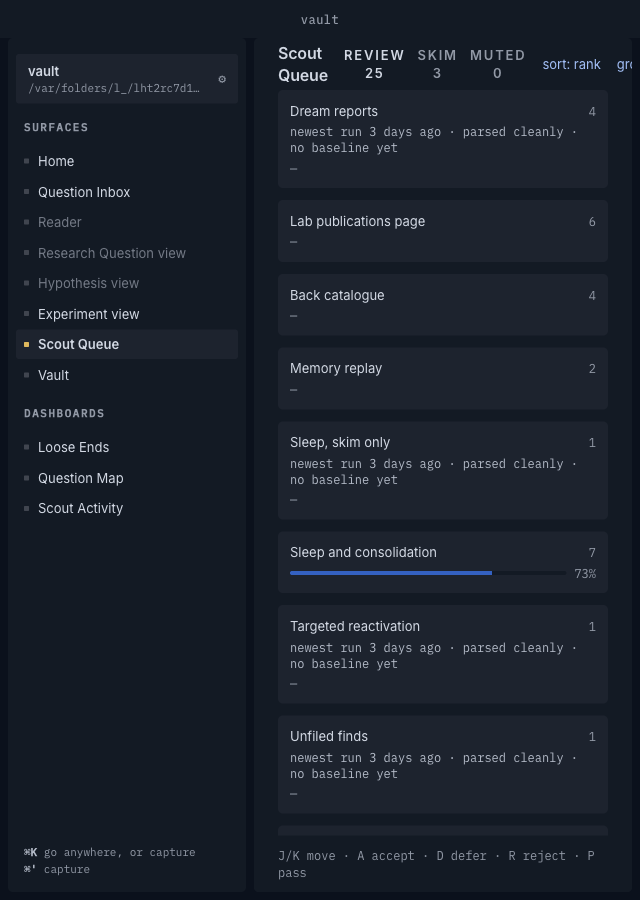
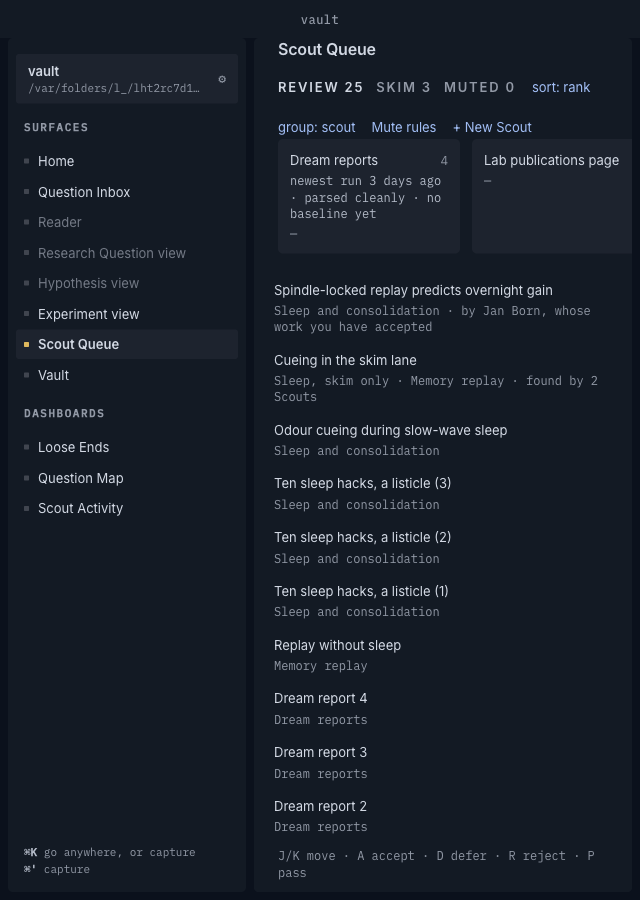
fix(scouts): one-row strip at every width, wrapping header; review fixes (#842)
The narrow captures showed the strip stacked into a column with no list in
view and the header clipped, so the strip is one sideways-scrolling row at
every width and the header wraps. Review: architecture.md now says the Scout
header sits above the panes and Pass resets to Rank's order; eight launches,
not nine; the CSS header comment no longer promises a rail; one Reject-this-
run helper in the drives; the broken tile scrolled into the picture. The
record lists what diverged and what a hidden launch cannot show (a failed
Queue read, which scout-queue.test.tsx covers). README status line off the
rail.

diff --git a/packages/renderer/src/ScoutQueue.module.css b/packages/renderer/src/ScoutQueue.module.css
@@ -1,7 +1,8 @@
 /*
  * The Scout Queue's tracer (#448): the Scouts' own files, one card in hand,
  * one key. A pane on the window's gutter, never a line between panes
- * (ADR 0023 decision 1); the rail, the Lanes and the rest are later tickets'.
+ * (ADR 0023 decision 1). Since beat 14 (ADR 0052) it is a strip of Scouts
+ * over a list and a detail.
  */
 .surface {
   flex: 1;
@@ -17,6 +18,7 @@
   min-height: 52px;
   flex: none;
   display: flex;
+  flex-wrap: wrap;
   align-items: center;
   gap: var(--space-4);
   padding: 0 var(--space-5);
@@ -338,8 +340,14 @@
   padding: 0 var(--space-5) var(--space-3);
   flex: none;
   list-style: none;
+  /* One row that scrolls sideways, as prototype 14 draws it, at every width:
+     a fleet that wraps to three rows leaves the panes beneath a row tall,
+     and in a narrow window stacks into a column with no list in view. */
   display: grid;
-  grid-template-columns: repeat(auto-fill, minmax(min(100%, 13rem), 1fr));
+  grid-auto-flow: column;
+  grid-auto-columns: minmax(min(100%, 13rem), 1fr);
+  overflow-x: auto;
+  scroll-padding-inline: var(--space-5);
   gap: var(--space-3);
 }
 
@@ -447,15 +455,6 @@
    (prototype 14), so J/K deep in a long list never scrolls the strip away.
    Stacked, the surface scrolls as one. */
 @media (min-width: 60rem) {
-  /* One row, as prototype 14 draws it: a fleet that wraps to three rows
-     would leave the panes beneath it a row tall. */
-  .strip {
-    grid-auto-flow: column;
-    grid-template-columns: none;
-    grid-auto-columns: minmax(13rem, 1fr);
-    overflow-x: auto;
-  }
-
   .panes {
     grid-template-columns: minmax(0, 2fr) minmax(0, 3fr);
     flex: 1;

diff --git a/docs/agents/run.md b/docs/agents/run.md
@@ -41,11 +41,11 @@ Copy `packages/core/fixtures/obsidian-vault` into the scratchpad: it has `.obsid
 
 `node Scripts/run-window-demo.mjs <out-folder>` is the run window's closing run (#562): three hidden launches over scratch copies of the fixture vault (the first with 50 generated Sources), the arXiv endpoint on the stand-in. One PNG each: fifty PDFs written five at a time over 15 s, which is one footer line with the whole count and every note holding its blocks (the drive samples the footer every 100 ms and throws on a second line); a lone PDF returned, which lands about 7 s after the save; two PDFs attached back to back, which are one line holding both counts. The `--after` of each launch is tuned to the moment its line lands, since the footer fades 8 s later; `KEEP=1` leaves the scratch vault behind.
 
-`node Scripts/scout-activity-demo.mjs <out-folder>` is the Scout Activity beat's closing run (#523): nine hidden launches on one scratch vault holding a dozen Scouts of mixed quality — seeded by SQL (`Scripts/scout-activity-demo/vault.mjs`: twelve weeks of triage, one failed run, one Watched Scout with no key, one paused, one that mostly finds what the vault holds), against a local stand-in for arXiv and for the lab's page (`Scripts/scout-activity-demo/standin.mjs`, the core's recorded feeds chosen by what the Query says) — never the real arXiv; no key is stored and `VITRINE_CREDENTIALS=memory` keeps the Keychain out of it. It picks its own free debug port, since another session's app may hold the default one. One PNG each: the fleet in need-order with no judgement colour, the poor Scout opened to its weekly line, its Query edited and the dry run saying what changes, the save that runs it at once, a cadence menu saying *due at the next check*, a drop that leaves the row in place with *undo*, the dropped Scout's Proposals still in the Queue under its name after a relaunch, its restore, and a coverage gap read through to *brief a scout* with the Question already Assigned. Each drive throws when the page does not show what its step claims, and the script checks the queue itself (a drop moves no Proposal and writes no verdict). Not shown: the per-run cost list, which only a Scout that called a model has — that needs a key and a model, and is the core's tests'.
+`node Scripts/scout-activity-demo.mjs <out-folder>` is the Scout Activity beat's closing run (#523): eight hidden launches on one scratch vault holding a dozen Scouts of mixed quality — seeded by SQL (`Scripts/scout-activity-demo/vault.mjs`: twelve weeks of triage, one failed run, one Watched Scout with no key, one paused, one that mostly finds what the vault holds), against a local stand-in for arXiv and for the lab's page (`Scripts/scout-activity-demo/standin.mjs`, the core's recorded feeds chosen by what the Query says) — never the real arXiv; no key is stored and `VITRINE_CREDENTIALS=memory` keeps the Keychain out of it. It picks its own free debug port, since another session's app may hold the default one. One PNG each: the fleet in need-order with no judgement colour, the poor Scout opened to its weekly line, its Query edited and the dry run saying what changes, the save that runs it at once, a cadence menu saying *due at the next check*, a drop that leaves the row in place with *undo*, the dropped Scout's Proposals still in the Queue under its name after a relaunch, its restore, and a coverage gap read through to *brief a scout* with the Question already Assigned. Each drive throws when the page does not show what its step claims, and the script checks the queue itself (a drop moves no Proposal and writes no verdict). Not shown: the per-run cost list, which only a Scout that called a model has — that needs a key and a model, and is the core's tests'.
 
 `node Scripts/keyword-demo.mjs <out-folder>` is the printed keywords' closing run (#684, spec #679): four hidden launches on one scratch copy of the fixture vault with a `probing` Tag of three papers, one holding a PDF (the core's `annotated-keywords.pdf`). One PNG each of the Tag's Lexicon editor: the printed keywords as *author keyword* Terms; the PDF replaced by one that prints none, and the Terms gone; the first put back; and a sidecar stripped of its keyword field (as one from before the slice is), read once and backfilled. It throws when the editor, the sidecar or the Source's bytes differ from what a step claims. No network is involved, so no stand-in.
 
-`node Scripts/attention-demo.mjs <out-folder>` is beat 10's closing run (#658, spec #636): nine hidden launches on one scratch copy of the fixture vault plus seven Tags of generated papers, against a local stand-in for OpenAlex (`Scripts/attention-demo/standin.mjs`, a table of fields answering each month's count; `VITRINE_OPENALEX_ENDPOINT`) — never the real one. One PNG each: a Lexicon derived and read with nothing sent; the first *Sync now*, asked first, then the scatter with its four quadrant names, where the axes cross and the two unplaced Tags with their reasons; a Seed leaving the old point marked *re-measure pending*; the sync on open failing for it with the measurement kept and Loose Ends and the Inbox unchanged; the review offering a paper by keyword overlap after the shared-Tag ones; and the recovered state in dark, light and each forced against the other. The script fails if anything is sent before *Sync now*, if a request carries more than compiled Terms, if the two-paper Tag is asked about, or if the failed Tag's stored measurement changes.
+`node Scripts/attention-demo.mjs <out-folder>` is beat 10's closing run (#658, spec #636): eight hidden launches on one scratch copy of the fixture vault plus seven Tags of generated papers, against a local stand-in for OpenAlex (`Scripts/attention-demo/standin.mjs`, a table of fields answering each month's count; `VITRINE_OPENALEX_ENDPOINT`) — never the real one. One PNG each: a Lexicon derived and read with nothing sent; the first *Sync now*, asked first, then the scatter with its four quadrant names, where the axes cross and the two unplaced Tags with their reasons; a Seed leaving the old point marked *re-measure pending*; the sync on open failing for it with the measurement kept and Loose Ends and the Inbox unchanged; the review offering a paper by keyword overlap after the shared-Tag ones; and the recovered state in dark, light and each forced against the other. The script fails if anything is sent before *Sync now*, if a request carries more than compiled Terms, if the two-paper Tag is asked about, or if the failed Tag's stored measurement changes.
 
 `node Scripts/page-change-demo.mjs <out-folder>` is the page change's closing run (#613, spec #563): seven hidden launches on one scratch copy of the fixture vault, against a local stand-in for a lab that moves its publications page and for the model's API (`Scripts/page-change-demo/standin.mjs`) — never a real site or the real API; `VITRINE_CREDENTIALS=memory` keeps the key in the core's memory, so each launch that reads a page stores it again. One PNG each: the Scout before the move, the old address failing, the form's *try* on the new Address and its Save, the first look (Retroactive), Loose Ends, and the weekly line's sentence. The script fails if Save changes any line of the file but `source.url`, if a run starts after Save, or if the first look at the new page is not an ok, Retroactive run. A launch checks every due Scout before the drive starts, so *no run after Save* is measured from a timestamp the drive writes (`DEMO_MARK`), not from a count.
 
@@ -57,7 +57,7 @@ Copy `packages/core/fixtures/obsidian-vault` into the scratchpad: it has `.obsid
 
 `node Scripts/tag-filter-demo.mjs <out-folder>` is beat 10b's closing run (#692, spec #678): six hidden launches on one scratch copy of the fixture vault with a `probing` Tag of three papers, a thin `bare` Tag and a hand-written Scout file naming it, against the arXiv stand-in of the Scout Activity demo (`VITRINE_ARXIV_ENDPOINT`) — never the real arXiv; `VITRINE_OPENALEX_ENDPOINT` is a dead port. One PNG each: the form with the Tag's Terms, the compiled query verbatim and *try* answered; the Scout saved and run; a Seed in the Lexicon editor; *Run now* after it; Loose Ends with the Scout whose Tag has no Terms failing by name; Scout Activity showing the Tags. The script prints each query the stand-in received and throws if *try* sent a window, if the Seed ran anything or is missing from the next query, if the `bare` Scout is not a `tags` failure. `KEEP=1` leaves the scratch vault behind.
 
-`node Scripts/vault-demo.mjs <out-folder>` is beat 11's closing run (#704, spec #680): nine hidden launches on one scratch copy of the fixture vault plus the notes a Vault surface is for (`Scripts/vault-demo/vault.mjs` — a note linking two highlights of a Source, one that only names it, a CRLF note with no trailing newline, a note of every kind of link, a digits-only tag), the arXiv endpoint on a dead port. One PNG each: the files tab with a Kind glyph per file and a Source's annotation count; typing saved (the CRLF note changes only the typed bytes on disk, a Working answer typed here adds a Position Revision); a duplicated section saved anyway and said on the Research Question's own surface; a Source's backlinks grouped by `^h1` / `^h2` with its unlinked mentions; the tag tree's inclusive and this-level counts and the refused tag with its file; full-text search opened with ↵; *changed on disk* with autosave waiting; *keep mine*, *take the disk copy* and a clean editor reloading silently; and following links (a Source lands on its own surface, an unresolved link and a `file:` link each said). The drives read the files on disk and throw when a step is not what it claims, so a green run is the evidence. The editor is driven by real clicks and typed text; the cursor is placed by a click on a line in view (CM draws only the lines near the viewport, so a click on the last line of a long file finds nothing), and a Live Preview line shows its marks only under the cursor, so a heading is found by its words and not its `##`. `KEEP=1` leaves the scratch vault behind.
+`node Scripts/vault-demo.mjs <out-folder>` is beat 11's closing run (#704, spec #680): eight hidden launches on one scratch copy of the fixture vault plus the notes a Vault surface is for (`Scripts/vault-demo/vault.mjs` — a note linking two highlights of a Source, one that only names it, a CRLF note with no trailing newline, a note of every kind of link, a digits-only tag), the arXiv endpoint on a dead port. One PNG each: the files tab with a Kind glyph per file and a Source's annotation count; typing saved (the CRLF note changes only the typed bytes on disk, a Working answer typed here adds a Position Revision); a duplicated section saved anyway and said on the Research Question's own surface; a Source's backlinks grouped by `^h1` / `^h2` with its unlinked mentions; the tag tree's inclusive and this-level counts and the refused tag with its file; full-text search opened with ↵; *changed on disk* with autosave waiting; *keep mine*, *take the disk copy* and a clean editor reloading silently; and following links (a Source lands on its own surface, an unresolved link and a `file:` link each said). The drives read the files on disk and throw when a step is not what it claims, so a green run is the evidence. The editor is driven by real clicks and typed text; the cursor is placed by a click on a line in view (CM draws only the lines near the viewport, so a click on the last line of a long file finds nothing), and a Live Preview line shows its marks only under the cursor, so a heading is found by its words and not its `##`. `KEEP=1` leaves the scratch vault behind.
 
 `node Scripts/home-demo.mjs <out-folder>` is beat 12's closing run (#737, spec #728): two hidden launches, each on its own scratch copy of the fixture vault plus three or four Scouts seeded by SQL (`Scripts/home-demo/vault.mjs`, every date relative to the run since Home measures against now), the arXiv endpoint on a dead port — never the real arXiv. One PNG each: Home quiet (every Scout looking, Review empty, nothing changed — each a claim with its Warrant, no interrupt) and Home full (a Scout failing as the interrupt with *run now* and *pause*, twelve in Review with median and oldest, the changes grouped under two Tags and *untagged*, three Questions back from the notebook, *away since* in the dateline). Each drive throws when Home does not show what its step claims or shows an absence it must never have (*nothing is broken*, a figure beside Loose Ends, an alert for a state, anything but three bare dashboard links), and logs every line carrying a digit as `NUMBER:` so the page can be read for a figure that leads nowhere. The notebook's third row sits below the fold of the capture; the drive reads it. `KEEP=1` leaves the scratch vaults behind.
 
@@ -67,7 +67,7 @@ Copy `packages/core/fixtures/obsidian-vault` into the scratchpad: it has `.obsid
 
 `node Scripts/ui-record-demo.mjs <out-folder>` is beat 13's closing record (#793, spec #782): four hidden launches (every surface in dark and in light on the Home demo's vault; First run in each theme), each drive taking its own `Page.captureScreenshot` per surface, arXiv and OpenAlex on dead ports. `docs/records/beat-13/` holds its output beside the frozen prototypes.
 
-`node Scripts/scout-queue-demo.mjs <out-folder>` is beat 14's closing run (#842, spec #836): nine hidden launches on one scratch vault — beat 6b's six Scouts and triage history (`Scripts/queue-demo/vault.mjs`) plus two Retroactive batches, three Skim lines and a Scout file that does not parse (`Scripts/scout-queue-demo/vault.mjs`) — against beat 6b's arXiv stand-in, never the real arXiv. Each drive takes its own pictures, dark, a 640px window and light: triage by keys (J/K, reject and `U`, an accept with no undo, a defer, the strip still in view after six J), a tile's filter and its Scout header, a batch expanded with a title selected and the other rejected as a run and undone, Skim, Muted, the Queue by Question, and the unreadable Scout's tile beside a rules file that cannot be read named in the footer. Each drive throws when the page does not show what its step claims, and the script reads the queue: a run reject is one row per card under the run id with no bulk id. `docs/records/beat-14/` holds its output. `KEEP=1` leaves the scratch vault behind.
+`node Scripts/scout-queue-demo.mjs <out-folder>` is beat 14's closing run (#842, spec #836): eight hidden launches on one scratch vault — beat 6b's six Scouts and triage history (`Scripts/queue-demo/vault.mjs`) plus two Retroactive batches, three Skim lines and a Scout file that does not parse (`Scripts/scout-queue-demo/vault.mjs`) — against beat 6b's arXiv stand-in, never the real arXiv. Each drive takes its own pictures, dark, a 640px window and light: triage by keys (J/K, reject and `U`, an accept with no undo, a defer, the strip still in view after six J), a tile's filter and its Scout header, a batch expanded with a title selected and the other rejected as a run and undone, Skim, Muted, the Queue by Question, and the unreadable Scout's tile beside a rules file that cannot be read named in the footer. Each drive throws when the page does not show what its step claims, and the script reads the queue: a run reject is one row per card under the run id with no bulk id. `docs/records/beat-14/` holds its output. `KEEP=1` leaves the scratch vault behind.
 
 ## What cannot be driven this way
 

diff --git a/docs/architecture.md b/docs/architecture.md
@@ -480,7 +480,7 @@ Health per Scout is a query: last `ok` run, last run with `new > 0`, and the new
 
 **The surface, when a Scout read fails** (#527). The Queue makes six reads — `scouts.list`, `queue`, `groups`, `fleet`, `health` and, in Skim only, `skim` — and any of them failing is a failed read, never an empty list (ADR 0032, 0033). Where the rows would begin the first slot is *wrong*, *not known*, in either lane; the health strip says the same when the Scouts themselves are not known, and withholds its counts when the stack is not, since a `0` beside a failed read reads as all clear. A surface with rows draws its rows and says nothing in the slot. The reasons go to the footer channel and nowhere else, `‖ not read — <reason>` as Scout Activity's is, one `role="status"` line each, and reads that failed for one cause share a line (#526 fails six with the same words). Skim's read counts only in Skim: it does not run in Review, and a failure it left behind would still be a footer line there. Settings words a failed `credentials.waiting` the same way in its footer, since there is no list to draw it in.
 
-**The surface** (`#/scouts`; ADR 0052, #837–#842). A header of text tabs (`Review N`, `Skim N`, `Muted N`), the `sort:` and `group:` toggles, *Mute rules* and *+ New Scout*; under it a health strip of one tile per Scout (name, pending count, its Voice line, an Accept-rate bar or `—`), which only filters; then a list pane of NEW FINDS in Rank order over RETROACTIVE batches beside a detail pane holding the selected Proposal, and one footer channel. A tile filters both lists to its Scout and opens the Scout's header at the top of the list pane (Run now, Edit, Pause/Resume, cost, Assigned Questions, *N already in your vault*, *N below your cap · Show them*); a second click or *show all* clears it. The form opens in the list and detail's place. A broken or not-yet Scout shows its fragment on its tile as well as in its header, so it cannot hide in a strip nobody filters, and an unreadable Scout file is a tile by file name. Grouping by Question swaps the strip for Question tiles. Keys: `J`/`K` move through the visible order, `A`/`D`/`R` act and select the next, `P` passes, `U` and `⌘Z` undo, `⇧R`/`⇧D` act on the list on screen; ignored in a field. **Retroactive batches** are `scouts.batches` (`readRetroBatches`, `triage.ts`): one entry per Retroactive run with cards pending — Scout, run id, pending ids in list order, the run's cost or null — derived from `scout_runs.retroactive`, `appearances` and `proposals` under the same Mute rules and Caps as the stack, nothing stored; the renderer never derives a batch from `Card.retroactive`. *Reject this run* is `rejectRun` on that run id and `U` is `undoRun`, one compensating `undo` per card still under that reject, with no bulk id (ADR 0052 decision 4). **Pass** `P` moves the card to the bottom of the session's order and wraps at the end; the order is newest-first again on the next open, and a group that has been passed through says so rather than showing an empty state. **Undo** covers reject and defer while the card is still in the stack and appends an `undo` row; accept is not undoable (ADR 0039 d.6). **Empty, in the three voices** (ADR 0032): no Scouts is *not yet*; a Scout with nothing pending claims only if its last run was `ok`, and otherwise speaks in its own voice; *Review cleared* is a claim warranted by the fleet — *3 scouts watching · all parsed cleanly · newest run 2h ago · last new proposal 11 Sep*, any Scout that is not looking named inline — and it makes no claim at all while any Scout is broken. Skim's quiet is warranted the same way. **Skim** offers `A` accept, `O` open and `T` *to Review* (writes `promote`); no `R`, `D` or `P`, since nothing there is owed, and a click selects a line and opens its detail rather than promoting it. As built (#452): `scouts.skim` returns `{ recent, older }`; `scouts.promote` writes the `promote` row and rewrites the Proposal's lane to `review`, so Review's reads and the `R`/`D`/undo guards need no special case, and `decide` refuses a Skim line. `acceptCounts` (`triage.ts`) is the Accept-rate read beat 9 builds on — it excludes any Proposal with a `promote` row and any still in the Skim lane, and nets out undone rejects. `scouts.fleet` (`readFleetClaim`, `scout-health.ts`) is the one fleet claim the lanes' empty states render (Skim's today; Review's *cleared* reads it too), withheld with the broken Scouts named while any is broken. It rests only on the Scouts that are not dropped: its newest run and its last new proposal are theirs, never a dropped Scout's (#521); a paused Scout is among them, since it ran and said so. Assigned Questions are drawn with their Status glyph and get no nag when closed; a promoted Question is not closed, and the picker offers open Questions only.
+**The surface** (`#/scouts`; ADR 0052, #837–#842). A header of text tabs (`Review N`, `Skim N`, `Muted N`), the `sort:` and `group:` toggles, *Mute rules* and *+ New Scout*; under it a health strip of one tile per Scout (name, pending count, its Voice line, an Accept-rate bar or `—`), which only filters; then a list pane of NEW FINDS in Rank order over RETROACTIVE batches beside a detail pane holding the selected Proposal, and one footer channel. A tile filters both lists to its Scout and opens the Scout's header above the panes (Run now, Edit, Pause/Resume, cost, Assigned Questions, *N already in your vault*, *N below your cap · Show them*); a second click or *show all* clears it. The form opens in the list and detail's place. A broken or not-yet Scout shows its fragment on its tile as well as in its header, so it cannot hide in a strip nobody filters, and an unreadable Scout file is a tile by file name. Grouping by Question swaps the strip for Question tiles. Keys: `J`/`K` move through the visible order, `A`/`D`/`R` act and select the next, `P` passes, `U` and `⌘Z` undo, `⇧R`/`⇧D` act on the list on screen; ignored in a field. **Retroactive batches** are `scouts.batches` (`readRetroBatches`, `triage.ts`): one entry per Retroactive run with cards pending — Scout, run id, pending ids in list order, the run's cost or null — derived from `scout_runs.retroactive`, `appearances` and `proposals` under the same Mute rules and Caps as the stack, nothing stored; the renderer never derives a batch from `Card.retroactive`. *Reject this run* is `rejectRun` on that run id and `U` is `undoRun`, one compensating `undo` per card still under that reject, with no bulk id (ADR 0052 decision 4). **Pass** `P` moves the card to the bottom of the session's order and wraps at the end; the order is Rank's again on the next open, and a group that has been passed through says so rather than showing an empty state. **Undo** covers reject and defer while the card is still in the session's list and appends an `undo` row; accept is not undoable (ADR 0039 d.6). **Empty, in the three voices** (ADR 0032): no Scouts is *not yet*; a Scout with nothing pending claims only if its last run was `ok`, and otherwise speaks in its own voice; *Review cleared* is a claim warranted by the fleet — *3 scouts watching · all parsed cleanly · newest run 2h ago · last new proposal 11 Sep*, any Scout that is not looking named inline — and it makes no claim at all while any Scout is broken. Skim's quiet is warranted the same way. **Skim** offers `A` accept, `O` open and `T` *to Review* (writes `promote`); no `R`, `D` or `P`, since nothing there is owed, and a click selects a line and opens its detail rather than promoting it. As built (#452): `scouts.skim` returns `{ recent, older }`; `scouts.promote` writes the `promote` row and rewrites the Proposal's lane to `review`, so Review's reads and the `R`/`D`/undo guards need no special case, and `decide` refuses a Skim line. `acceptCounts` (`triage.ts`) is the Accept-rate read beat 9 builds on — it excludes any Proposal with a `promote` row and any still in the Skim lane, and nets out undone rejects. `scouts.fleet` (`readFleetClaim`, `scout-health.ts`) is the one fleet claim the lanes' empty states render (Skim's today; Review's *cleared* reads it too), withheld with the broken Scouts named while any is broken. It rests only on the Scouts that are not dropped: its newest run and its last new proposal are theirs, never a dropped Scout's (#521); a paused Scout is among them, since it ran and said so. Assigned Questions are drawn with their Status glyph and get no nag when closed; a promoted Question is not closed, and the picker offers open Questions only.
 
 **Tests and the demo.** The arXiv client takes an injected `fetch` and an injected clock, so the three-second gap is asserted, not slept. Recorded Atom fixtures live with the core's tests: a normal feed, an empty feed, the one-entry error feed, a `v2` of a known id, a truncation. One opt-in live smoke test sits outside the default suite. The beat's closing demo drives the app hidden against a local stub server, never live arXiv, so it is reproducible and cannot trip the ToU in CI.
 

diff --git a/README.md b/README.md
@@ -10,6 +10,6 @@ A local-first research workspace built around the Question rather than the note.
 
 Vitrine is built by [Sarah Lehman](https://github.com/dr-tacomancer) under [Tacomancy](https://tacomancy.com/), a one-person studio.
 
-**Status:** the design is complete and every surface has a pinned prototype; the stack is settled (ADR 0005), scaffolded and packaged — `pnpm install && pnpm dev` opens the window on a running core, `pnpm package` installs the app. All eight surfaces are live against a real Markdown vault — two-keystroke capture and the **Question Inbox**; the **Research Question view**, with triage, a working answer kept as a Position history rather than overwritten, sources on two sides, and resolve; the **Hypothesis view**, with criteria written before any run, a state derived from them with its rule printed beside it, edits after evidence marked, and the result written back to the question it came from; and the **Experiment view**, which holds a run's purpose, its design written before running, where it ran, its plots and files drawn inline (stored in the vault, or linked where they lie and checked when the run is attached as Evidence) and its observations, beside an **Experiment Inbox** of completed runs not yet written up or attached — and the **Scout Queue**, where arXiv Scouts (a Query, run on open and hourly) and OpenAlex Scouts (journals and conferences only, by Query or by Tags, optionally limited to a venue allowlist) propose papers as cards to review or skim — one card when both find the same work, its journal link first — ranked by what you have already accepted, with a Cap, mute rules and a one-gesture group clear that undoes as one — accept one and a Source stub is written, and a broken Scout is named in the same sentence on the rail and in Loose Ends — and Scouts that watch a web page — read from its feed at no cost, or by your own model with every card checked against the page, a key kept in the Keychain, a redesigned page named as broken — along with all three dashboards — **Loose Ends**; the **Question Map**, a coverage matrix with its cut stated, a review of inferred links, and a second panel plotting each Tag's field growth (OpenAlex, nothing sent but its Terms) against the papers you hold, with its Lexicon editable beside it; and **Scout Activity**, one row per Scout sorted by need and judging none, where a poor Query is fixed in its own row and a Scout is dropped and restored with its history. The vault is watched and indexed, so an edit made in Obsidian reaches the app. **Settings** (⌘,) states where the vault is and where the PDFs are, naming an iCloud Drive or Dropbox folder the PDF folder links to; while that folder does not resolve, the footer says *papers not arriving*. The **Reader** opens a paper's PDF beside what already touches it: annotations made in Preview or on an iPad are re-matched when the file is re-saved and become blocks in the Source, a highlight whose note begins `Q:` becomes a Question, one that cannot be found is a Loose end to resolve rather than a link that rots, and a selection becomes a highlight, a margin note or a Question from the page. The **Vault** is a three-pane surface for the plain Markdown beside all of that — a file tree with a glyph per Kind, a tag tree with both counts, full-text search, an editor that saves as you type (and records a Position Revision when what you typed is a Question's, a Hypothesis's or an Experiment's own section), the file's backlinks (a Source's grouped by the highlight they point at) and its unlinked mentions, and one line, never a dialog, when a file changes on disk under unsaved typing. **Home** is the landing: one sentence claiming that the Scouts are looking (never that nothing is wrong), a broken Scout as the one thing it interrupts for, what waits in Review, what changed while you were away grouped by Tag, and three old Questions from the notebook that can be dismissed out of the rotation, not out of the vault. Everything else is designed and not yet built.
+**Status:** the design is complete and every surface has a pinned prototype; the stack is settled (ADR 0005), scaffolded and packaged — `pnpm install && pnpm dev` opens the window on a running core, `pnpm package` installs the app. All eight surfaces are live against a real Markdown vault — two-keystroke capture and the **Question Inbox**; the **Research Question view**, with triage, a working answer kept as a Position history rather than overwritten, sources on two sides, and resolve; the **Hypothesis view**, with criteria written before any run, a state derived from them with its rule printed beside it, edits after evidence marked, and the result written back to the question it came from; and the **Experiment view**, which holds a run's purpose, its design written before running, where it ran, its plots and files drawn inline (stored in the vault, or linked where they lie and checked when the run is attached as Evidence) and its observations, beside an **Experiment Inbox** of completed runs not yet written up or attached — and the **Scout Queue**, where arXiv Scouts (a Query, run on open and hourly) and OpenAlex Scouts (journals and conferences only, by Query or by Tags, optionally limited to a venue allowlist) propose papers to review or skim — a ranked list beside the selected paper, under a strip of every Scout's health, with a first look at a page's back catalogue kept apart from new finds and rejected as one run; one card when both Scouts find the same work, its journal link first — ranked by what you have already accepted, with a Cap, mute rules and a one-gesture group clear that undoes as one — accept one and a Source stub is written, and a broken Scout is named in the same sentence on its tile and in Loose Ends — and Scouts that watch a web page — read from its feed at no cost, or by your own model with every card checked against the page, a key kept in the Keychain, a redesigned page named as broken — along with all three dashboards — **Loose Ends**; the **Question Map**, a coverage matrix with its cut stated, a review of inferred links, and a second panel plotting each Tag's field growth (OpenAlex, nothing sent but its Terms) against the papers you hold, with its Lexicon editable beside it; and **Scout Activity**, one row per Scout sorted by need and judging none, where a poor Query is fixed in its own row and a Scout is dropped and restored with its history. The vault is watched and indexed, so an edit made in Obsidian reaches the app. **Settings** (⌘,) states where the vault is and where the PDFs are, naming an iCloud Drive or Dropbox folder the PDF folder links to; while that folder does not resolve, the footer says *papers not arriving*. The **Reader** opens a paper's PDF beside what already touches it: annotations made in Preview or on an iPad are re-matched when the file is re-saved and become blocks in the Source, a highlight whose note begins `Q:` becomes a Question, one that cannot be found is a Loose end to resolve rather than a link that rots, and a selection becomes a highlight, a margin note or a Question from the page. The **Vault** is a three-pane surface for the plain Markdown beside all of that — a file tree with a glyph per Kind, a tag tree with both counts, full-text search, an editor that saves as you type (and records a Position Revision when what you typed is a Question's, a Hypothesis's or an Experiment's own section), the file's backlinks (a Source's grouped by the highlight they point at) and its unlinked mentions, and one line, never a dialog, when a file changes on disk under unsaved typing. **Home** is the landing: one sentence claiming that the Scouts are looking (never that nothing is wrong), a broken Scout as the one thing it interrupts for, what waits in Review, what changed while you were away grouped by Tag, and three old Questions from the notebook that can be dismissed out of the rotation, not out of the vault. Everything else is designed and not yet built.
 
 The previous native macOS app lives in `main`'s history before the reimagining.

diff --git a/docs/records/beat-14/README.md b/docs/records/beat-14/README.md
@@ -1,6 +1,6 @@
 # Beat 14 record: the Scout Queue revamp beside prototype 14
 
-Spec #836, beat #834, closing ticket #842. Produced by `node Scripts/scout-queue-demo.mjs docs/records/beat-14`: nine hidden launches on one scratch vault (beat 6b's six Scouts and triage history, two Retroactive batches, three Skim lines, a Scout file that does not parse), against beat 6b's arXiv stand-in. Each drive throws when the page does not show what its step claims, so these pictures are from a green run. The prototype is [`14-scout-queue-revamp.png`](../../reference/prototypes/14-scout-queue-revamp.png) (with [batch expanded](../../reference/prototypes/14-scout-queue-revamp-batch-expanded.png) and [run rejected](../../reference/prototypes/14-scout-queue-revamp-run-rejected.png)), drawn dark at a wide window.
+Spec #836, beat #834, closing ticket #842. Produced by `node Scripts/scout-queue-demo.mjs docs/records/beat-14`: eight hidden launches on one scratch vault (beat 6b's six Scouts and triage history, two Retroactive batches, three Skim lines, a Scout file that does not parse), against beat 6b's arXiv stand-in. Each drive throws when the page does not show what its step claims, so these pictures are from a green run. The prototype is [`14-scout-queue-revamp.png`](../../reference/prototypes/14-scout-queue-revamp.png) (with [batch expanded](../../reference/prototypes/14-scout-queue-revamp-batch-expanded.png) and [run rejected](../../reference/prototypes/14-scout-queue-revamp-run-rejected.png)), drawn dark at a wide window.
 
 Sample content differs from the prototype's (fixture vault, not the mockup's), so compare layout and treatment, not words. The narrow column is a 640px window.
 
@@ -17,14 +17,25 @@ Sample content differs from the prototype's (fixture vault, not the mockup's), s
 
 ## What the pictures showed, and what was done
 
-- **The surface scrolled as one page.** Moving through a long list with J scrolled the header and the strip out of view, and the detail went with them. In a window wide enough for two panes, each pane now scrolls on its own under a strip drawn as one row (scrolling sideways when the fleet is wider than the window), as the prototype draws it; stacked, the surface still scrolls as one. Step 1's drive asserts the strip is still in view after six J.
-- **Dead CSS.** The old rail's `.scouts` / `.scout` rules had no reader left; removed.
+- **The surface scrolled as one page.** Moving through a long list with J scrolled the header and the strip out of view, and the detail went with them. In a window wide enough for two panes (60rem), each pane now scrolls on its own; stacked, the surface still scrolls as one. Step 1's drive asserts the strip is still in view after six J.
+- **The strip wrapped.** Nine tiles wrapped to three rows, leaving the panes under a filtered Scout's header a row tall, and in a 640px window they stacked into a column with no list in view. The strip is now one row at every width, as the prototype draws it, scrolling sideways when the fleet is wider than the window.
+- **The header clipped in a narrow window.** At 640px the controls ran off the right edge; the header row now wraps.
+- **Dead CSS.** The old rail's `.scouts` / `.scout` rules had no reader left; removed, with the module's header comment that still promised a rail.
+
+## Not shown here
+
+- **A failed read of the Queue's own data** (spec #836 story 44: the slot drawn *wrong*, `‖ not read — <reason>` in the footer). A hidden launch has no seam to fail `queue`, `groups`, `fleet`, `health`, `scouts.list` or `skim`; `scout-queue.test.tsx` fails each in turn and asserts the slot and the footer line. Step 7 shows the neighbouring case a launch can make: a rules file that does not parse, named in the footer.
 
 ## Divergences left open
 
 These are visible beside the prototype and none breaks a behaviour the spec states; they are listed on the beat's `Shipped:` comment.
 
 - No `NEW FINDS · N` heading over the new finds, and `RETROACTIVE` carries no count.
-- The Scout header sits above both panes, not at the top of the list pane (ADR 0052 decision 2), and its *Run now · Edit · Pause* run together with no separator.
+- The Scout header sits above both panes, not at the top of the list pane (ADR 0052 decision 2); its *Run now · Edit · Pause* run together with no separator; a tall header (many Assigned Questions, a held list) leaves the panes short.
+- The tabs are uppercase and tracked (`REVIEW 25`) where the prototype sets `Review 46`.
+- A tile for a Scout whose last run found something shows no Voice line, only the rate or `—`, where the prototype gives every tile one (*ran 3h ago · no model call*).
+- A strip wider than the window scrolls sideways, so a tile — the unreadable Scout's included, since it is last — can be off screen until scrolled to (step 7's drive brings it into view).
 - The selected row is a raised background with no accent bar; a batch row has no disclosure glyph.
-- The detail is a raised card, its actions the inline tier (`Defer D`) rather than the prototype's bordered buttons.
+- The detail is a raised card with the focus ring as an accent border, its actions the inline tier (`Defer D`) rather than the prototype's bordered buttons.
+- The sticky footer covers the list pane's last line until scrolled.
+- Beat 6b's `Scripts/queue-demo.mjs` still waits on the old rail (`#scout-rail-sleep`) and no longer runs; pointing its drives at the strip is a follow-up.
